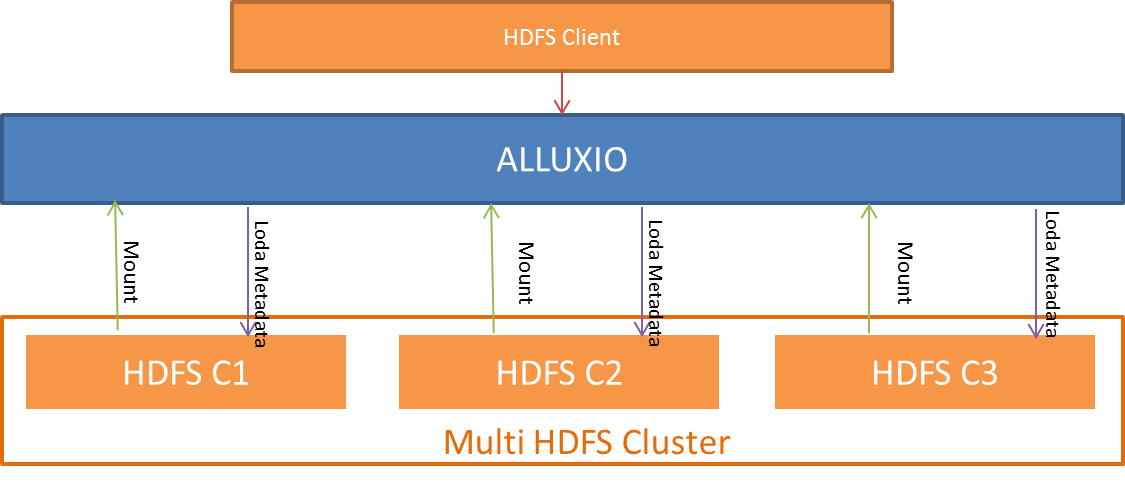
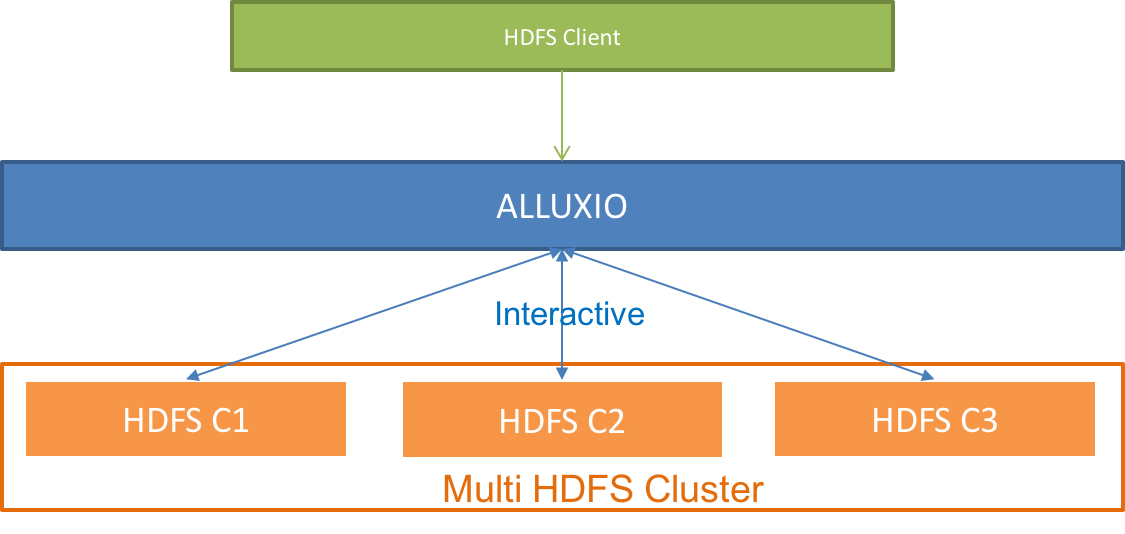
modify flow

diff --git a/alluxio/Alluxio作为路由和缓存功能的设计文档.md b/alluxio/Alluxio作为路由和缓存功能的设计文档.md
@@ -124,12 +124,17 @@ Alluxio的各个组件与HDFS的各个组件的交互如下图所示：
 3. <font color =red> Need to Investigate </font>
 4. <font color =red> Need to Investigate </font>
 
+**Alluxio与UFS分离后的交互图**
+
+![Alluxio_HDFS_separate](./flow/Alluxio_HDFS_separate.png)
+
 ### Proxy
 
 Proxy的功能主要：
 
 1. 解析功能：根据path信息去解析获取HDFS的Client和HDFS Space的path信息；
 2. 接口实现：实现兼容HDFS client的API接口；
+3. load功能： 将UFS中的数据从HDFS中load进Alluxio Space中；
 
 #### 解析功能
 
@@ -147,5 +152,9 @@ Proxy层实现了API有：Append；
 
 ##### Append
 
+![append](./flow/append.png)
 
+##### Create
+
+![create](/Users/guoyejun/gitProject/gitDoc/alluxio/flow/create.png)
 
